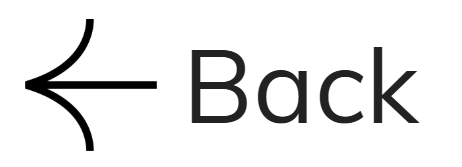
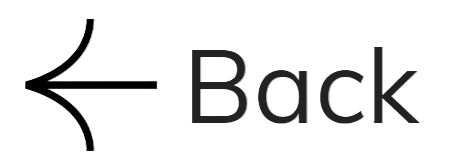
HUY

diff --git a/Pages/Emergency room.html b/Pages/Emergency room.html
@@ -7,9 +7,9 @@
     <link rel="stylesheet" href="Home_css.css">
 </head>
 <body>
-    <div>
-        <a href = "index.html"> <- Back</a>
-    </div>
+    <button class = 'backbtn' onclick = "window.location.href = 'index.html'">
+        <img src="Images/White back.png" alt="Icon">
+    </button>
     <footer>
     <div class="footer-text">
         <div class="footer-block">

diff --git a/Pages/Plant ICU.html b/Pages/Plant ICU.html
@@ -7,9 +7,9 @@
     <link rel="stylesheet" href="Home_css.css">
 </head>
 <body>
-    <div>
-        <a href = "index.html"> <- Back</a>
-    </div>
+    <button class = 'backbtn' onclick = "window.location.href = 'index.html'">
+        <img src="Images/Back.png" alt="Icon">
+    </button>
     <footer>
     <div class="footer-text">
         <div class="footer-block">

diff --git a/Pages/Recovery room.html b/Pages/Recovery room.html
@@ -7,9 +7,9 @@
     <link rel="stylesheet" href="Home_css.css">
 </head>
 <body>
-    <div>
-        <a href = "index.html"> <- Back</a>
-    </div>
+    <button class = 'backbtn' onclick = "window.location.href = 'index.html'">
+        <img src="Images/Back.png" alt="Icon">
+    </button>
     <footer>
     <div class="footer-text">
         <div class="footer-block">

diff --git a/Pages/index.html b/Pages/index.html
@@ -10,7 +10,7 @@
 <body>
     <div class="navbar">
         <img src="Images/Logo.png" alt="Logo" id="logo">
-        <a href="Home.html"> Home</a> 
+        <a href="index.html"> Home</a> 
         <a href="About us.html">About us</a> 
         <a href="Plant ICU.html">Plant ICU</a>
         <a href="Emergency room.html">Emergency room</a> 

diff --git a/Pages/Home_css.css b/Pages/Home_css.css
@@ -392,7 +392,7 @@ transition: background-color 0.5s ease;
     border: none;
     background: none;
     cursor: pointer;
-    transition: transform 1s ease;
+    transition: transform 0.3s ease;
     margin-left: 50px;
     margin-top: 50px;
 }
